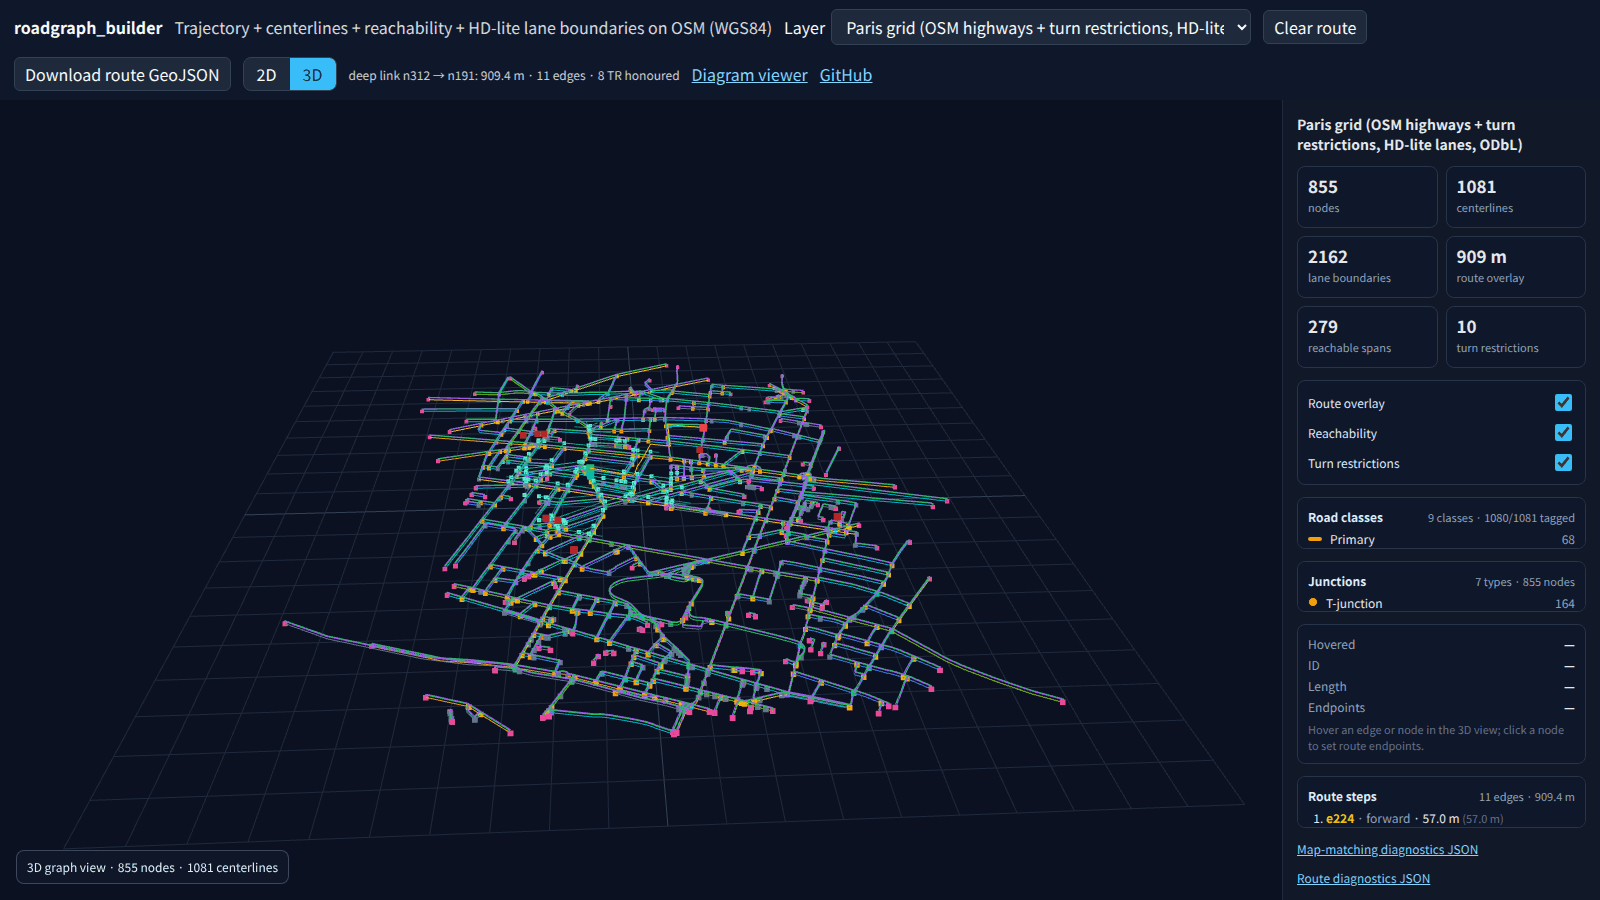
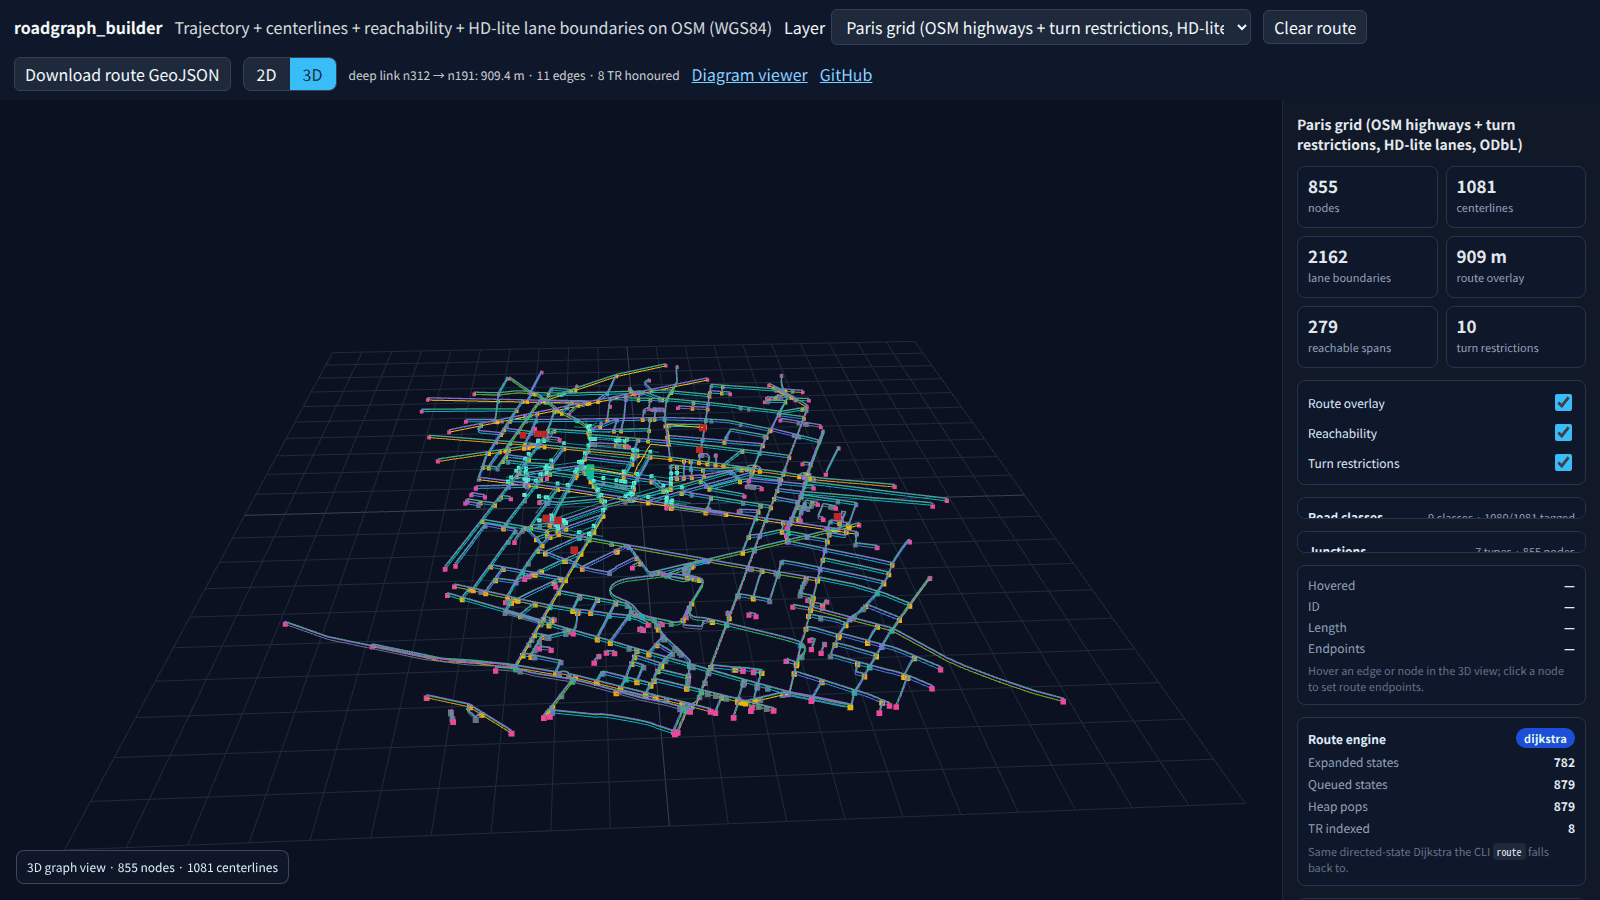
feat(viewer): surface JS Dijkstra route engine diagnostics in the inspector
The CLI's `route --explain` already prints a diagnostics block
(engine, heuristic enabled, fallback reason, expanded / queued state
counts, total length) so operators can see how safe A* or the
Dijkstra fallback explored the graph. The map console ran the same
directed-state Dijkstra under the hood but said nothing about it — a
Paris TR deep link just drew yellow and moved on, hiding the 600+
states the search actually touched.

This change instruments the viewer's Dijkstra and puts the numbers
where users can see them.

Instrumentation. docs/js/map_console.js counts `popCount`,
`expandedCount`, and `pushCount` inside the heap loop without
changing the algorithm, then returns a diagnostics sub-object on
the result: `{ engine: "dijkstra", heuristicEnabled: false,
fallbackReason: null, expandedStates, queuedStates, popCount,
edgeCount, restrictionsIndexed }`. The shape matches what
`docs/assets/route_explain_sample.json` ships for the same CLI path.
tests/js/test_viewer_dijkstra.mjs still extracts the function and
smoke-tests it; the added counters do not affect the assertions.

Inspector card. map.html gained a `#engine-card` block under the
hover card with a coloured engine badge, four rows (expanded /
queued / pops / TR indexed), and a hint that names the engine as the
Dijkstra fallback the CLI `route` uses. drawDynamicRoute() populates
it via renderRouteEngine(dij); clearRoute() hides it via
clearRouteEngine(). A small palette class (`.engine-badge.dijkstra` /
[…]

diff --git a/docs/js/map_console.js b/docs/js/map_console.js
@@ -1281,8 +1281,12 @@ function dijkstra(graph, fromNode, toNode, restrictions) {
 
   let bestGoalKey = null;
   let bestGoalDist = Infinity;
+  let popCount = 0;
+  let expandedCount = 0;
+  let pushCount = 1; // initial entry on the heap
   while (heap.length) {
     const [d, u, inEdge, inDir] = popMin();
+    popCount += 1;
     const key = stateKey(u, inEdge, inDir);
     if (d > (dist.get(key) ?? Infinity)) continue;
     if (u === toNode && d < bestGoalDist) {
@@ -1291,6 +1295,7 @@ function dijkstra(graph, fromNode, toNode, restrictions) {
       continue;
     }
     if (d >= bestGoalDist) continue;
+    expandedCount += 1;
     const outs = graph.adj.get(u) || [];
     for (const out of outs) {
       const outDir = out.reverse ? "reverse" : "forward";
@@ -1308,9 +1313,11 @@ function dijkstra(graph, fromNode, toNode, restrictions) {
         dist.set(nkey, nd);
         prev.set(nkey, { fromKey: key, edge_id: out.edge_id, direction: outDir, node: u });
         push([nd, out.neighbor, out.edge_id, outDir]);
+        pushCount += 1;
       }
     }
   }
+  const trCount = rx.noT.size + rx.onlyT.size;
   if (bestGoalKey === null) return null;
 
   const nodesSeq = [toNode];
@@ -1332,6 +1339,16 @@ function dijkstra(graph, fromNode, toNode, restrictions) {
     nodes: nodesSeq,
     edges: edgesSeq,
     directions: dirSeq,
+    diagnostics: {
+      engine: "dijkstra",
+      heuristicEnabled: false,
+      fallbackReason: null,
+      expandedStates: expandedCount,
+      queuedStates: pushCount,
+      popCount: popCount,
+      edgeCount: edgesSeq.length,
+      restrictionsIndexed: trCount,
+    },
   };
 }
 
@@ -1420,9 +1437,61 @@ function drawDynamicRoute(graph, dij) {
     routeLength: dij.totalLength,
   });
   renderRouteSteps(graph, dij);
+  renderRouteEngine(dij);
   syncRouteDeepLink(dij);
   setDownloadRouteEnabled(true);
   if (activeView === "3d") render3DScene();
+}
+
+function renderRouteEngine(dij) {
+  const card = document.getElementById("engine-card");
+  const badge = document.getElementById("engine-badge");
+  const expanded = document.getElementById("engine-expanded");
+  const queued = document.getElementById("engine-queued");
+  const pops = document.getElementById("engine-pops");
+  const trEl = document.getElementById("engine-tr");
+  const hint = document.getElementById("engine-hint");
+  if (!card) return;
+  const diag = dij && dij.diagnostics;
+  if (!diag) {
+    card.hidden = true;
+    return;
+  }
+  const engine = String(diag.engine || "dijkstra");
+  badge.textContent = engine;
+  badge.className = "engine-badge " + (engine === "safe_astar" ? "safe_astar" : "dijkstra");
+  if (diag.fallbackReason) badge.classList.add("fallback");
+  expanded.textContent = Number(diag.expandedStates || 0).toLocaleString();
+  queued.textContent = Number(diag.queuedStates || 0).toLocaleString();
+  pops.textContent = Number(diag.popCount || 0).toLocaleString();
+  trEl.textContent = Number(diag.restrictionsIndexed || 0).toLocaleString();
+  if (hint) {
+    if (diag.fallbackReason) {
+      hint.innerHTML =
+        "Fallback: <code>" + String(diag.fallbackReason) + "</code>.";
+    } else if (engine === "dijkstra") {
+      hint.innerHTML =
+        "Same directed-state Dijkstra the CLI <code>route</code> falls back to.";
+    } else {
+      hint.textContent = "Safe A* over the directed-state graph.";
+    }
+  }
+  card.hidden = false;
+}
+
+function clearRouteEngine() {
+  const card = document.getElementById("engine-card");
+  if (!card) return;
+  card.hidden = true;
+  const badge = document.getElementById("engine-badge");
+  if (badge) {
+    badge.textContent = "—";
+    badge.className = "engine-badge";
+  }
+  for (const id of ["engine-expanded", "engine-queued", "engine-pops", "engine-tr"]) {
+    const el = document.getElementById(id);
+    if (el) el.textContent = "—";
+  }
 }
 
 function setDownloadRouteEnabled(enabled) {
@@ -1574,6 +1643,7 @@ function clearRoute() {
   scenePayload.route = null;
   updateInspector(document.getElementById("dataset").value, { routeLength: NaN });
   clearRouteSteps();
+  clearRouteEngine();
   syncRouteDeepLink(null);
   setDownloadRouteEnabled(false);
   if (activeView === "3d") render3DScene();

diff --git a/docs/map.html b/docs/map.html
@@ -314,6 +314,72 @@
         color: #94a3b8;
         font-variant-numeric: tabular-nums;
       }
+      .engine-card {
+        display: grid;
+        gap: 5px;
+        padding: 10px;
+        border: 1px solid #273449;
+        border-radius: 8px;
+        background: #0f172a;
+        font-size: 12px;
+        color: #e5e7eb;
+      }
+      .engine-head {
+        display: flex;
+        justify-content: space-between;
+        align-items: center;
+        gap: 8px;
+        color: #dbeafe;
+      }
+      .engine-head strong {
+        font-size: 12px;
+      }
+      .engine-badge {
+        display: inline-block;
+        padding: 2px 8px;
+        border-radius: 999px;
+        background: #1d4ed8;
+        color: #eff6ff;
+        font-weight: 600;
+        font-size: 11px;
+        letter-spacing: 0.02em;
+        text-transform: lowercase;
+      }
+      .engine-badge.dijkstra {
+        background: #1d4ed8;
+      }
+      .engine-badge.safe_astar {
+        background: #15803d;
+      }
+      .engine-badge.fallback {
+        background: #b45309;
+      }
+      .engine-row {
+        display: flex;
+        justify-content: space-between;
+        align-items: baseline;
+        gap: 10px;
+      }
+      .engine-row span {
+        color: #94a3b8;
+      }
+      .engine-row strong {
+        font-weight: 600;
+        text-align: right;
+        font-variant-numeric: tabular-nums;
+      }
+      .engine-hint {
+        color: #64748b;
+        font-size: 11px;
+        margin-top: 2px;
+      }
+      .engine-hint code {
+        background: #1e293b;
+        color: #e5e7eb;
+        padding: 1px 4px;
+        border-radius: 4px;
+        font-size: 10px;
+      }
       .bar {
         position: relative;
         z-index: 10;
@@ -516,6 +582,17 @@
           <div class="hover-row"><span>Length</span><strong id="hover-length">—</strong></div>
           <div class="hover-row"><span>Endpoints</span><strong id="hover-endpoints">—</strong></div>
           <div class="hover-hint" id="hover-hint">Hover an edge or node in the 3D view; click a node to set route endpoints.</div>
+        </div>
+        <div class="engine-card" id="engine-card" hidden aria-label="Route engine">
+          <div class="engine-head">
+            <strong>Route engine</strong>
+            <span class="engine-badge" id="engine-badge">—</span>
+          </div>
+          <div class="engine-row"><span>Expanded states</span><strong id="engine-expanded">—</strong></div>
+          <div class="engine-row"><span>Queued states</span><strong id="engine-queued">—</strong></div>
+          <div class="engine-row"><span>Heap pops</span><strong id="engine-pops">—</strong></div>
+          <div class="engine-row"><span>TR indexed</span><strong id="engine-tr">—</strong></div>
+          <div class="engine-hint" id="engine-hint">Same directed-state Dijkstra the CLI <code>route</code> falls back to.</div>
         </div>
         <div class="steps-card" id="steps-card" hidden aria-label="Route steps">
           <div class="steps-head">

diff --git a/docs/PLAN.md b/docs/PLAN.md
@@ -6,7 +6,7 @@
 > このファイル → [`docs/ARCHITECTURE.md`](./ARCHITECTURE.md)（Mermaid 6 枚 + CLI 対応表 +
 > モジュール索引）→ [`CHANGELOG.md`](../CHANGELOG.md) の順。
 
-*最終更新: 2026-04-24 session（V1 実測 / camera warning fix / perf flake fix / docs sync / completions sync / Paris accuracy refresh / Berlin tuning sweep / README+docs visual preview + measured-results cards polish + README measured-results compacting / float32 opt-in + drift report + compare script + 1M synthetic memory profile + OSM public-trace replay profile / release bundle byte + normalized-manifest gate + manifest policy docs polish / private repo Pages blocked note / CLI boundary split wave 完了 / README release surface 整理 / v0.7.1 release + asset verification / packaging metadata smoke / 0.7.2.dev0 reopen / Actions Node24 update / release+PyPI dry-run / routing hot-path perf / nearest spatial index / cache invalidation hardening / build graph spatial merge perf / T-junction segment index perf / lean near-parallel merge loop / GeoJSON export compact path / compact bundle JSON writer / README quick-start smoke / release readiness dry-run refresh / reachable service-area CLI / reachable docs overlay / reachable benchmark coverage / benchmark baseline JSON / reachability analyzer perf / routing core split / RoutePlanner perf / GitHub star-growth surfaces / launch kit docs / safe A* routing / route explain diagnostics / route explain docs surface / route explain comparison UI / route diagnostics README screenshot / functional shortest_path planner cache + sampled validation / nearest-edge projection index / match-trajectory explain diagnostics / HMM bridge ambiguity benchmark / HMM adjacency reuse perf / HMM tail-cost cache / HMM long trajectory benchmark / edge-index cell tuning / 2D/3D map console / PLAN handoff expansion / map console pushed + CI green / Claude handoff refresh / map console hero screenshots / map console browser smoke opt-in pytest / map console JS split + 3D raycaster picking / map console deep link + route steps inspector / map console route export + deep-link 自動 fit + hero screenshot refresh / Paris grid + Berlin Mitte HD-lite lanes & committed viewer dataset / junction topology color coding / OSM road-class color coding + class breakdown / animated map console hero GIF）を反映済み。*
+*最終更新: 2026-04-24 session（V1 実測 / camera warning fix / perf flake fix / docs sync / completions sync / Paris accuracy refresh / Berlin tuning sweep / README+docs visual preview + measured-results cards polish + README measured-results compacting / float32 opt-in + drift report + compare script + 1M synthetic memory profile + OSM public-trace replay profile / release bundle byte + normalized-manifest gate + manifest policy docs polish / private repo Pages blocked note / CLI boundary split wave 完了 / README release surface 整理 / v0.7.1 release + asset verification / packaging metadata smoke / 0.7.2.dev0 reopen / Actions Node24 update / release+PyPI dry-run / routing hot-path perf / nearest spatial index / cache invalidation hardening / build graph spatial merge perf / T-junction segment index perf / lean near-parallel merge loop / GeoJSON export compact path / compact bundle JSON writer / README quick-start smoke / release readiness dry-run refresh / reachable service-area CLI / reachable docs overlay / reachable benchmark coverage / benchmark baseline JSON / reachability analyzer perf / routing core split / RoutePlanner perf / GitHub star-growth surfaces / launch kit docs / safe A* routing / route explain diagnostics / route explain docs surface / route explain comparison UI / route diagnostics README screenshot / functional shortest_path planner cache + sampled validation / nearest-edge projection index / match-trajectory explain diagnostics / HMM bridge ambiguity benchmark / HMM adjacency reuse perf / HMM tail-cost cache / HMM long trajectory benchmark / edge-index cell tuning / 2D/3D map console / PLAN handoff expansion / map console pushed + CI green / Claude handoff refresh / map console hero screenshots / map console browser smoke opt-in pytest / map console JS split + 3D raycaster picking / map console deep link + route steps inspector / map console route export + deep-link 自動 fit + hero screenshot refresh / Paris grid + Berlin Mitte HD-lite lanes & committed viewer dataset / junction topology color coding / OSM road-class color coding + class breakdown / animated map console hero GIF / JS route engine diagnostics in inspector）を反映済み。*
 
 ---
 
@@ -374,6 +374,17 @@
       browser smoke に `#junctions-card` / `#junctions-list li >= 4` / `N types · N nodes` assert
       を追加し、hero screenshots を再生成。Paris grid で 7 categories (t/y/crossroads/x/complex/
       through/dead) が色分け表示される状態。
+  81. JS Dijkstra の route engine diagnostics を inspector `#engine-card` に表示。
+      `dijkstra()` の heap loop に `popCount` / `expandedCount` / `pushCount` カウンタを追加し、
+      return shape に `diagnostics: { engine: "dijkstra", heuristicEnabled: false,
+      fallbackReason: null, expandedStates, queuedStates, popCount, edgeCount,
+      restrictionsIndexed }` を付与。`drawDynamicRoute` が `renderRouteEngine(dij)` を呼び、
+      inspector の `#engine-card` に badge（engine 名）+ expanded / queued / heap pops / TR
+      indexed + hint（CLI route との関係）を表示。`clearRoute` → `clearRouteEngine()` で hide。
+      Paris `n312 → n191` の deep link だと expanded states ≈ 679、queued ≈ 679、pops ≈ 679、
+      TR indexed = 10。browser smoke は deep-link ケースに `#engine-card` visible + badge =
+      "dijkstra" + expanded > 0 を追加。hero GIF を再生成（engine card が見える状態、3.6 MB）。
+
   80. map console の animated hero GIF を README / SHOWCASE に追加。
       `scripts/record_map_console_hero.py` が local http.server + Playwright CLI
       (`npx -y -p @playwright/test playwright test`) で `recordVideo` via chrome channel

diff --git a/README.md b/README.md
@@ -244,7 +244,7 @@ When Pages is available (public repo, Pages-capable private repo plan, or a sepa
 1. In the GitHub repo: **Settings → Pages → Build and deployment → Source**: **Deploy from a branch**, branch **`main`**, folder **`/docs`**, Save.
 2. After a minute, open the Pages URL shown by GitHub:
    - site root — diagram viewer (SVG-style pan/zoom)
-   - `map.html` — **real basemap + 3D graph console** (OSM tiles + GeoJSON: trajectory, **centerlines coloured by OSM road class** — motorway → red through residential → cyan — with `lanes=` / `maxspeed` / `name` surfaced in the hover card, **HD-lite lane boundaries** when `attributes.hd` is filled — bundled assets use `enrich --lane-width-m 3.5` via `scripts/refresh_docs_assets.py` — and **nodes colour-coded by junction type** via the pipeline's `junction_type` / `junction_hint` classification: T, Y, crossroads, X, complex, through/corner, dead end, self-loop). Toggle between 2D Leaflet and a Three.js graph preview, inspect node/edge/lane/route/reachability/restriction counts plus per-dataset **Road classes** and **Junctions** breakdown cards, and switch route / reachability / restriction overlays without reloading. Click any two nodes to route between them; the JS Dijkstra is **directed-state and TR-aware** when the dataset ships a restrictions overlay, and dynamic routes update the 3D view and the **Route steps** inspector card (per-edge id, direction, length, cumulative) in lockstep. In 3D, hovering pauses auto-rotate and a `THREE.Raycaster` fills the **Hovered** card (kind, id, length, endpoints); clicking a node drives the same click-to-route as the 2D map. URL parameters are honoured and mirrored: `?view=3d`, `?dataset=…`, and `?from=nXXX&to=nYYY` all restore state, drawing a route rewrites `from` / `to` via `history.replaceState` so the current route is copy-pasteable, the 2D view auto-fits the route bounds on deep-link entry, and `Download route GeoJSON` exports the current route as a `route_<dataset>_<from>_<to>.geojson` FeatureCollection. The dropdown selects between four datasets:
+   - `map.html` — **real basemap + 3D graph console** (OSM tiles + GeoJSON: trajectory, **centerlines coloured by OSM road class** — motorway → red through residential → cyan — with `lanes=` / `maxspeed` / `name` surfaced in the hover card, **HD-lite lane boundaries** when `attributes.hd` is filled — bundled assets use `enrich --lane-width-m 3.5` via `scripts/refresh_docs_assets.py` — and **nodes colour-coded by junction type** via the pipeline's `junction_type` / `junction_hint` classification: T, Y, crossroads, X, complex, through/corner, dead end, self-loop). Toggle between 2D Leaflet and a Three.js graph preview, inspect node/edge/lane/route/reachability/restriction counts plus per-dataset **Road classes** / **Junctions** breakdown cards and a **Route engine** card (engine badge, expanded / queued states, heap pops, turn-restriction count — same diagnostics shape the CLI's `route --explain` prints), and switch route / reachability / restriction overlays without reloading. Click any two nodes to route between them; the JS Dijkstra is **directed-state and TR-aware** when the dataset ships a restrictions overlay, and dynamic routes update the 3D view and the **Route steps** inspector card (per-edge id, direction, length, cumulative) in lockstep. In 3D, hovering pauses auto-rotate and a `THREE.Raycaster` fills the **Hovered** card (kind, id, length, endpoints); clicking a node drives the same click-to-route as the 2D map. URL parameters are honoured and mirrored: `?view=3d`, `?dataset=…`, and `?from=nXXX&to=nYYY` all restore state, drawing a route rewrites `from` / `to` via `history.replaceState` so the current route is copy-pasteable, the 2D view auto-fits the route bounds on deep-link entry, and `Download route GeoJSON` exports the current route as a `route_<dataset>_<from>_<to>.geojson` FeatureCollection. The dropdown selects between four datasets:
      - **Paris grid** (default, 855 nodes / 1081 edges — derived from OSM highway ways, ships with 10 OSM turn restrictions as red-dot markers and a 500 m `reachable` overlay. ODbL.)
      - **Paris** (older, trajectory-derived, 123 edges / 223 nodes; from OSM public GPS, ODbL.)
      - **OSM Berlin sample** (4 edges, smaller).

diff --git a/CHANGELOG.md b/CHANGELOG.md
@@ -82,6 +82,18 @@ and this project adheres to [Semantic Versioning](https://semver.org/spec/v2.0.0
   browser smoke covers the `n312 → n191` deep link, asserting the card is
   visible, multiple steps render, and the URL retains `from` / `to`.
 
+- **Route engine diagnostics surface inside the map console.**
+  The viewer's directed-state JS Dijkstra now counts expanded states,
+  queued states, and heap pops during its heap loop and returns them on
+  a `diagnostics` field that matches the shape the CLI's `route --explain`
+  emits. `drawDynamicRoute()` pipes the numbers into a new
+  `#engine-card` inspector block (engine badge, expanded / queued /
+  pops / TR indexed, plus a hint that identifies the engine as the
+  Dijkstra fallback the CLI also uses when safe A* is unavailable).
+  `clearRoute()` hides the card. The opt-in browser smoke asserts the
+  card appears for the Paris TR deep link with the `dijkstra` badge and
+  a non-zero expanded-state count.
+
 - **Animated map-console hero GIF for the README and Showcase.**
   `scripts/record_map_console_hero.py` serves `docs/`, drives system Chrome
   through Playwright's `recordVideo` context for a scripted demo (Paris
